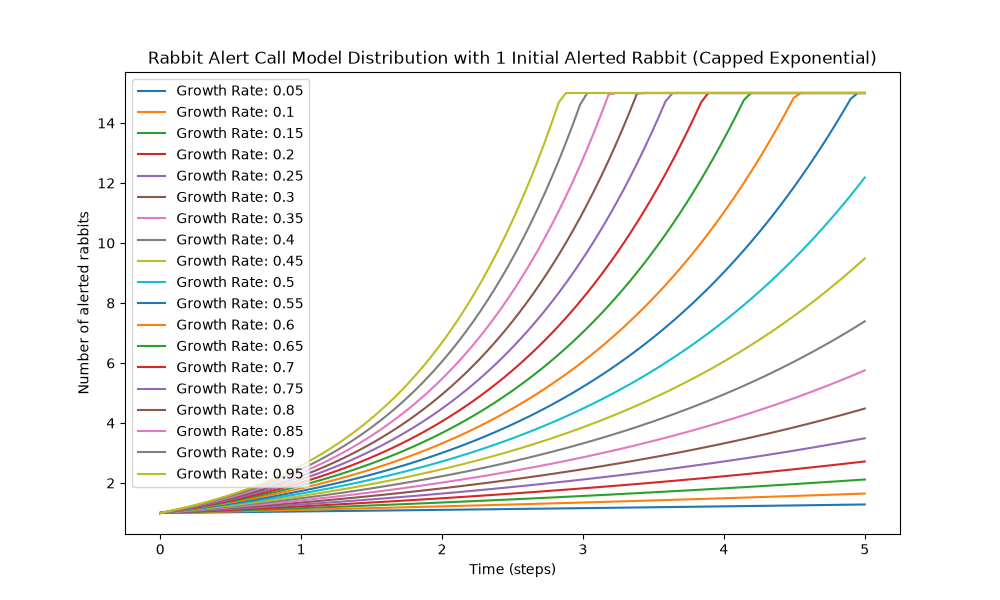
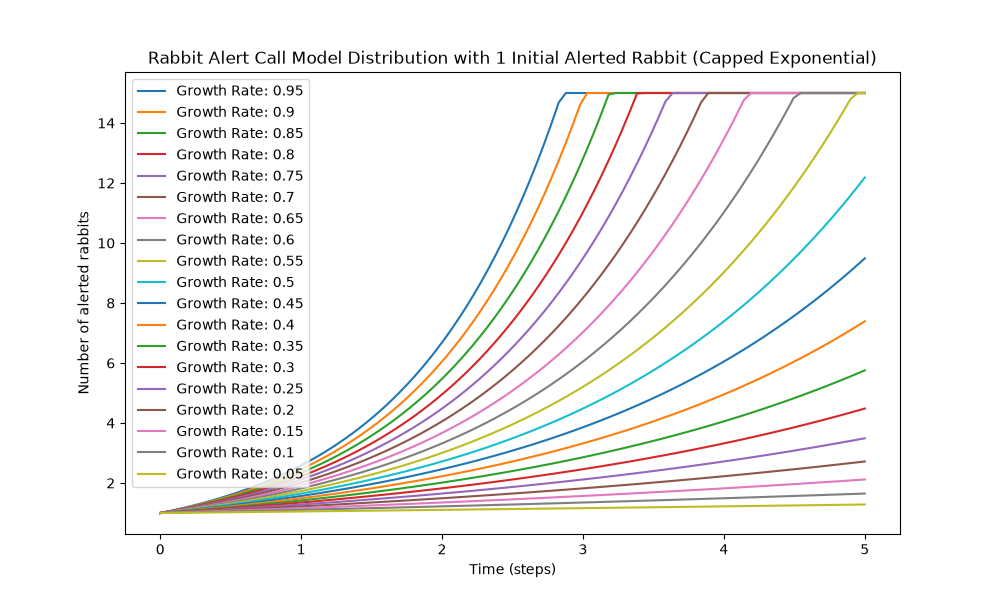
Account for rabbits born and dead instead of a fixed population

diff --git a/model_with_life.py b/model_with_life.py
@@ -27,7 +27,6 @@ Assumptions:
 - Predator behavior is not modeled.
 - Once a rabbit becomes alerted, it remains alerted for the duration
   of the simulation.
-- Population size is fixed and does not account for rabbits born or dead
 - Time is treated as continuous in the differential equation model.
 
 Limitations:
@@ -45,9 +44,9 @@ Future Work:
 - Compare exponential, logistic, and capped-growth models.
 """
 
-def form_differential_equation( spread_rate: float):
+def form_differential_equation(born: int, dead: int,spread_rate: float):
     A = Function('A')
-    return Eq(diff(A(t), t), spread_rate * A(t))
+    return Eq(diff(A(t), t), spread_rate * A(t) + (born - dead))
 
 def solve_equation(equation: Eq, a_0: int):
     A = Function('A')
@@ -94,13 +93,15 @@ def form_piecewise_solution(solution: Equality, carrying_capacity: int, poi: flo
 
 if __name__=="__main__":
     parser = argparse.ArgumentParser(description="Insert parameters for modeling rabbit alert calls.")
+    parser.add_argument("--born", type=int, default=0, help="Number of rabbits born in a warren/burrow")
+    parser.add_argument("--dead", type=int, default=0, help="Number of rabbits that die in a warren/burrow")
     parser.add_argument("--initial_alerted", type=int, default=1, help="Number of rabbits that detect the predator immediately")
     parser.add_argument("--spread_rate", type=float, default = 0.1, help="Fastness of how rabbits alert each other")
     parser.add_argument("--capacity", type=int, default = 15, help="Number of rabbits as part of the habitat")
 
     args = parser.parse_args()
     
-    equation = form_differential_equation(args.spread_rate)
+    equation = form_differential_equation(args.born, args.dead, args.spread_rate)
     solution = solve_equation(equation, args.initial_alerted)
     
     find_cap_point = find_point_of_intersection(solution, args.capacity)
@@ -125,4 +126,5 @@ if __name__=="__main__":
     plt.plot(time_values, alert_values)
     plt.axvline(x=find_cap_point, color="red")
     
-    plt.savefig(f"rabbit_alerts_naive_initial_{args.initial_alerted}_rate_{args.spread_rate}_capped.png")
+    plt.savefig(f"rabbit_alerts_naive_initial_{args.initial_alerted}_rate_{args.spread_rate}_born_{args.born}_dead_{args.dead}.png")
+    

diff --git a/compare_models.py b/compare_models.py
@@ -38,7 +38,7 @@ if __name__=="__main__":
             plt.title(f"Rabbit Alert Call Model Distribution with 1 Initial Alerted Rabbit (Capped Exponential)")
         else:
             plt.title(f"Rabbit Alert Call Model Distribution with {initial_point} Initial Alerted Rabbits (Capped Exponential)")
-        for rate in args.spread_rates:
+        for rate in args.spread_rates[::-1]:
             equation = capped_exponential_model.form_differential_equation(rate)
             solution = capped_exponential_model.solve_equation(equation, initial_point)
             poi = capped_exponential_model.find_point_of_intersection(solution, args.capacity)
